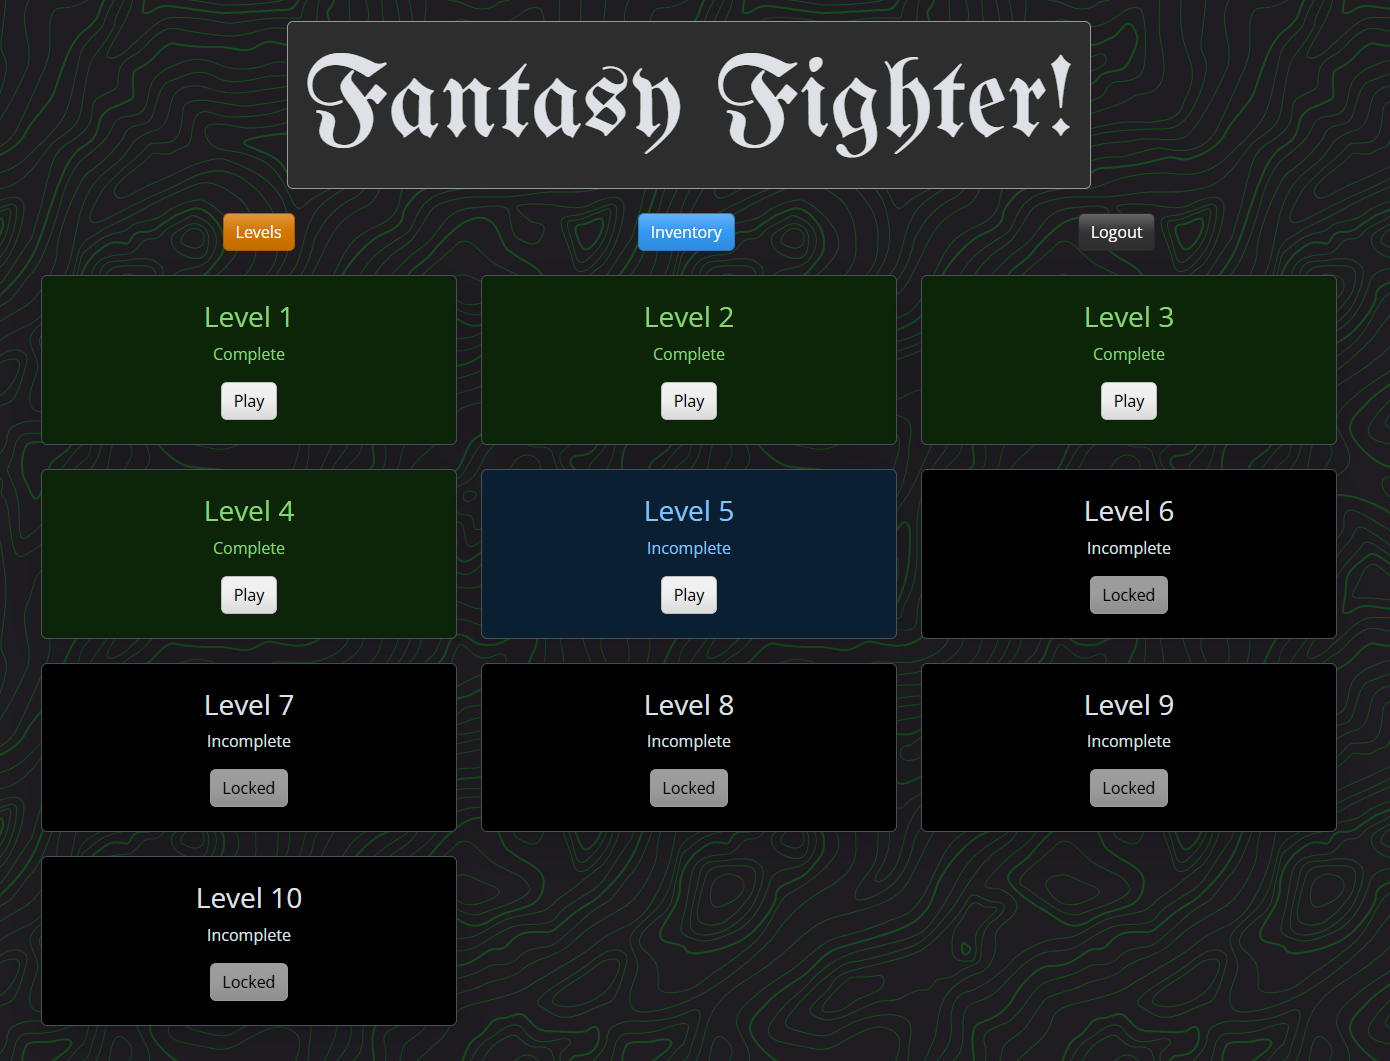
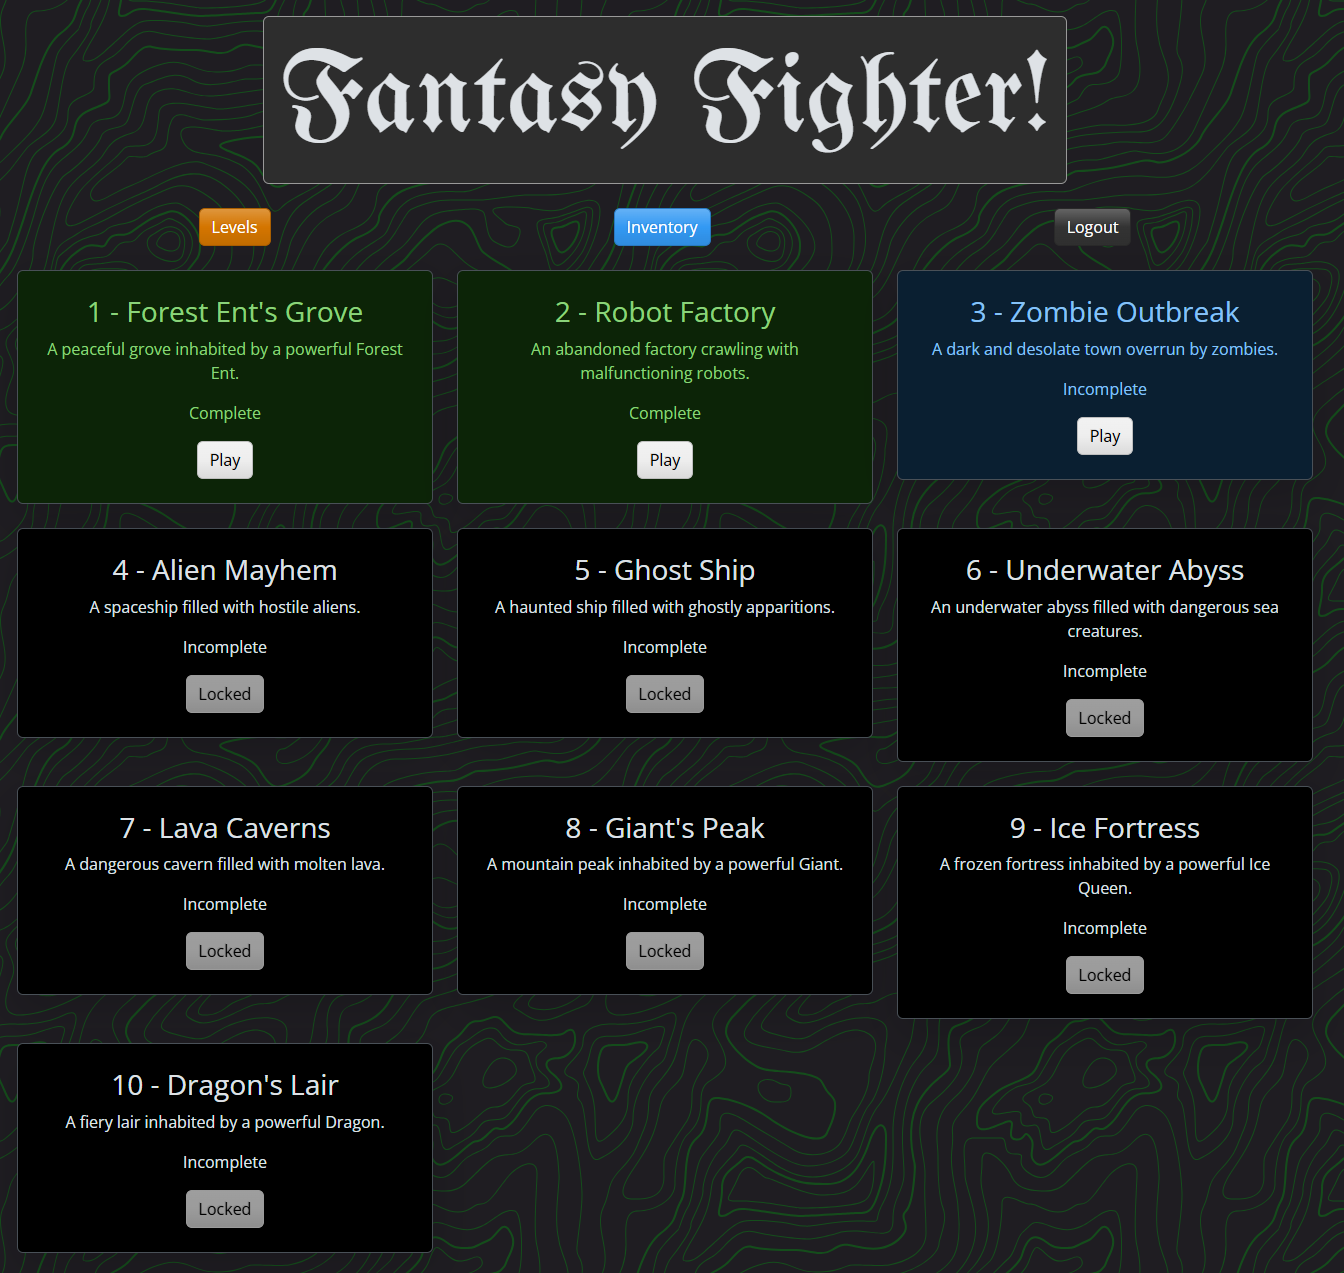
ART IMPLEMENTED - that's the best part of this commit. otherwise it's small updates and some more detailed screenshots

diff --git a/client/src/pages/Combat.tsx b/client/src/pages/Combat.tsx
@@ -43,11 +43,7 @@ const Combat = () => {
         const { message, combatId, player, enemy } = await response.json();
 
         // Set state with response data
-        setPlayer({
-          ...player,
-          health: ensureNonNegative(player.health),
-          mana: ensureNonNegative(player.mana),
-        });
+        setPlayer(player);
         setPlayerMaxHealth(player.health);
         setPlayerMaxMana(player.mana);
         setEnemy(enemy);
@@ -191,6 +187,9 @@ const Combat = () => {
     return (current / max) * 100;
   };
 
+  // Change to 'https://project-2-c43n.onrender.com/' for deployment and 'http://localhost:5001' for local development
+  const baseUrl = 'https://project-2-c43n.onrender.com/';
+
   return (
     <div className="combat-container text-center mt-3">
       {player && enemy && level ? (
@@ -198,7 +197,7 @@ const Combat = () => {
           <div className="battlefield card w-50 m-auto d-flex flex-row justify-content-between">
             <div className="player-info p-5 details-card">
               <h2>{player.username}</h2>
-              <img src={`${player.sprite}`} alt={player.username} className="m-3"/>
+              <img src={`${baseUrl}${player.sprite}`} alt={player.username} className="m-3"/>
               <div className="progress mb-2 position-relative custom-progress-bar">
                 <div
                   className="progress-bar bg-success"
@@ -228,7 +227,7 @@ const Combat = () => {
             </div>
             <div className="enemy-info p-5 details-card">
               <h2>{enemy.name}</h2>
-              <img src={`${enemy.sprite}`} alt={enemy.name} className="m-3"/>
+              <img src={`${baseUrl}${enemy.sprite}`} alt={enemy.name} className="m-3"/>
               <div className="progress mb-2 position-relative custom-progress-bar">
                 <div
                   className="progress-bar bg-success"

diff --git a/server/src/routes/auth.ts b/server/src/routes/auth.ts
@@ -39,7 +39,7 @@ router.post('/create', (req, res, next): void => {
         attack: 15,
         defense: 1,
         username: newUser.username,
-        sprite: "../assets/heroBlue.gif",
+        sprite: "/assets/heroBlue.gif",
         inventory: [],
       });
 

diff --git a/README.md b/README.md
@@ -32,8 +32,14 @@ A turn-based RPG featuring a Fantasy protagonist thrown into a world of chaos fe
 3. **Levels Screen**
 
    <a href="./screenshots/levels.png" target="_blank">
-     <img src="./screenshots/levels.png" alt="Combat Screen" style="max-width: 690px;">
+     <img src="./screenshots/levels.png" alt="Levels Screen" style="max-width: 690px;">
    </a>
+
+4. **Combat GUI**
+
+    <a href="./screenshots/combat.png" target="_blank">
+      <img src="./screenshots/combat.png" alt="Combat Screen" style="max-width: 690px;">
+    </a>
 
 ## Authors
 
